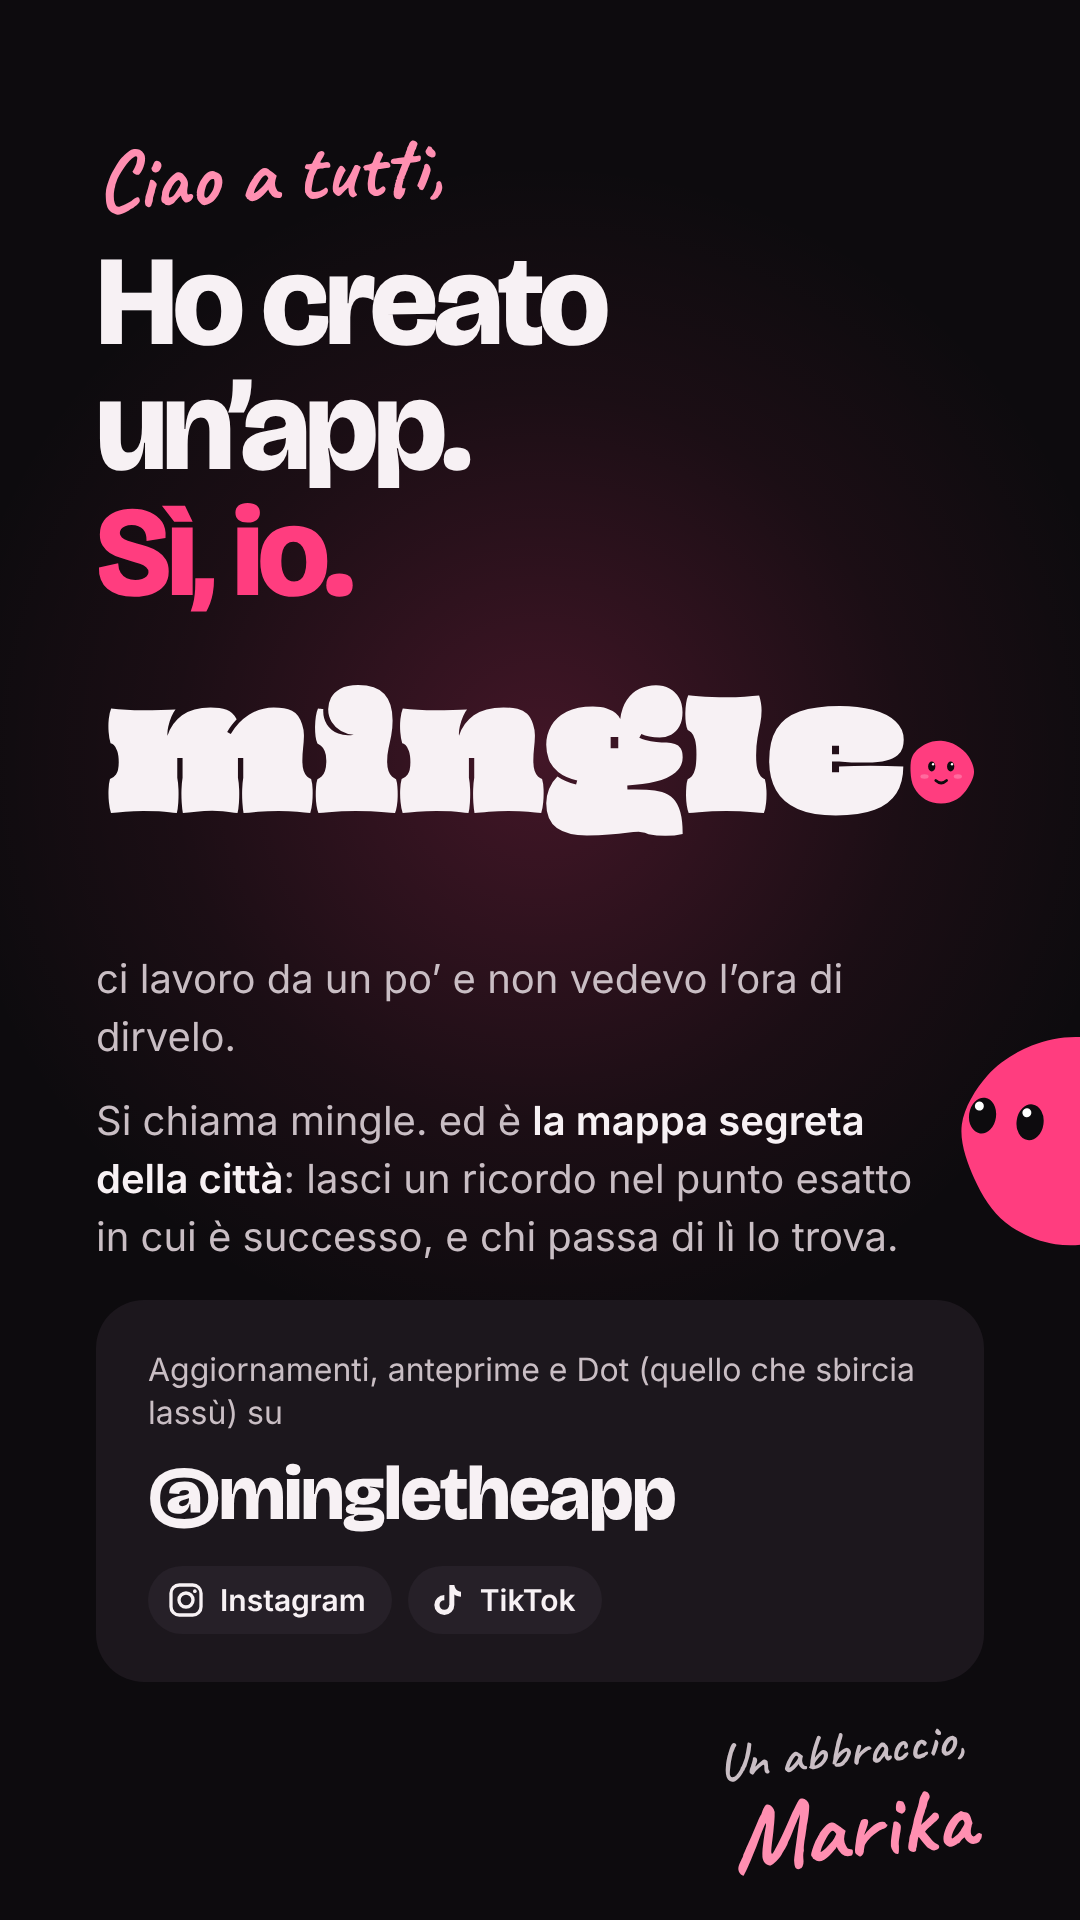
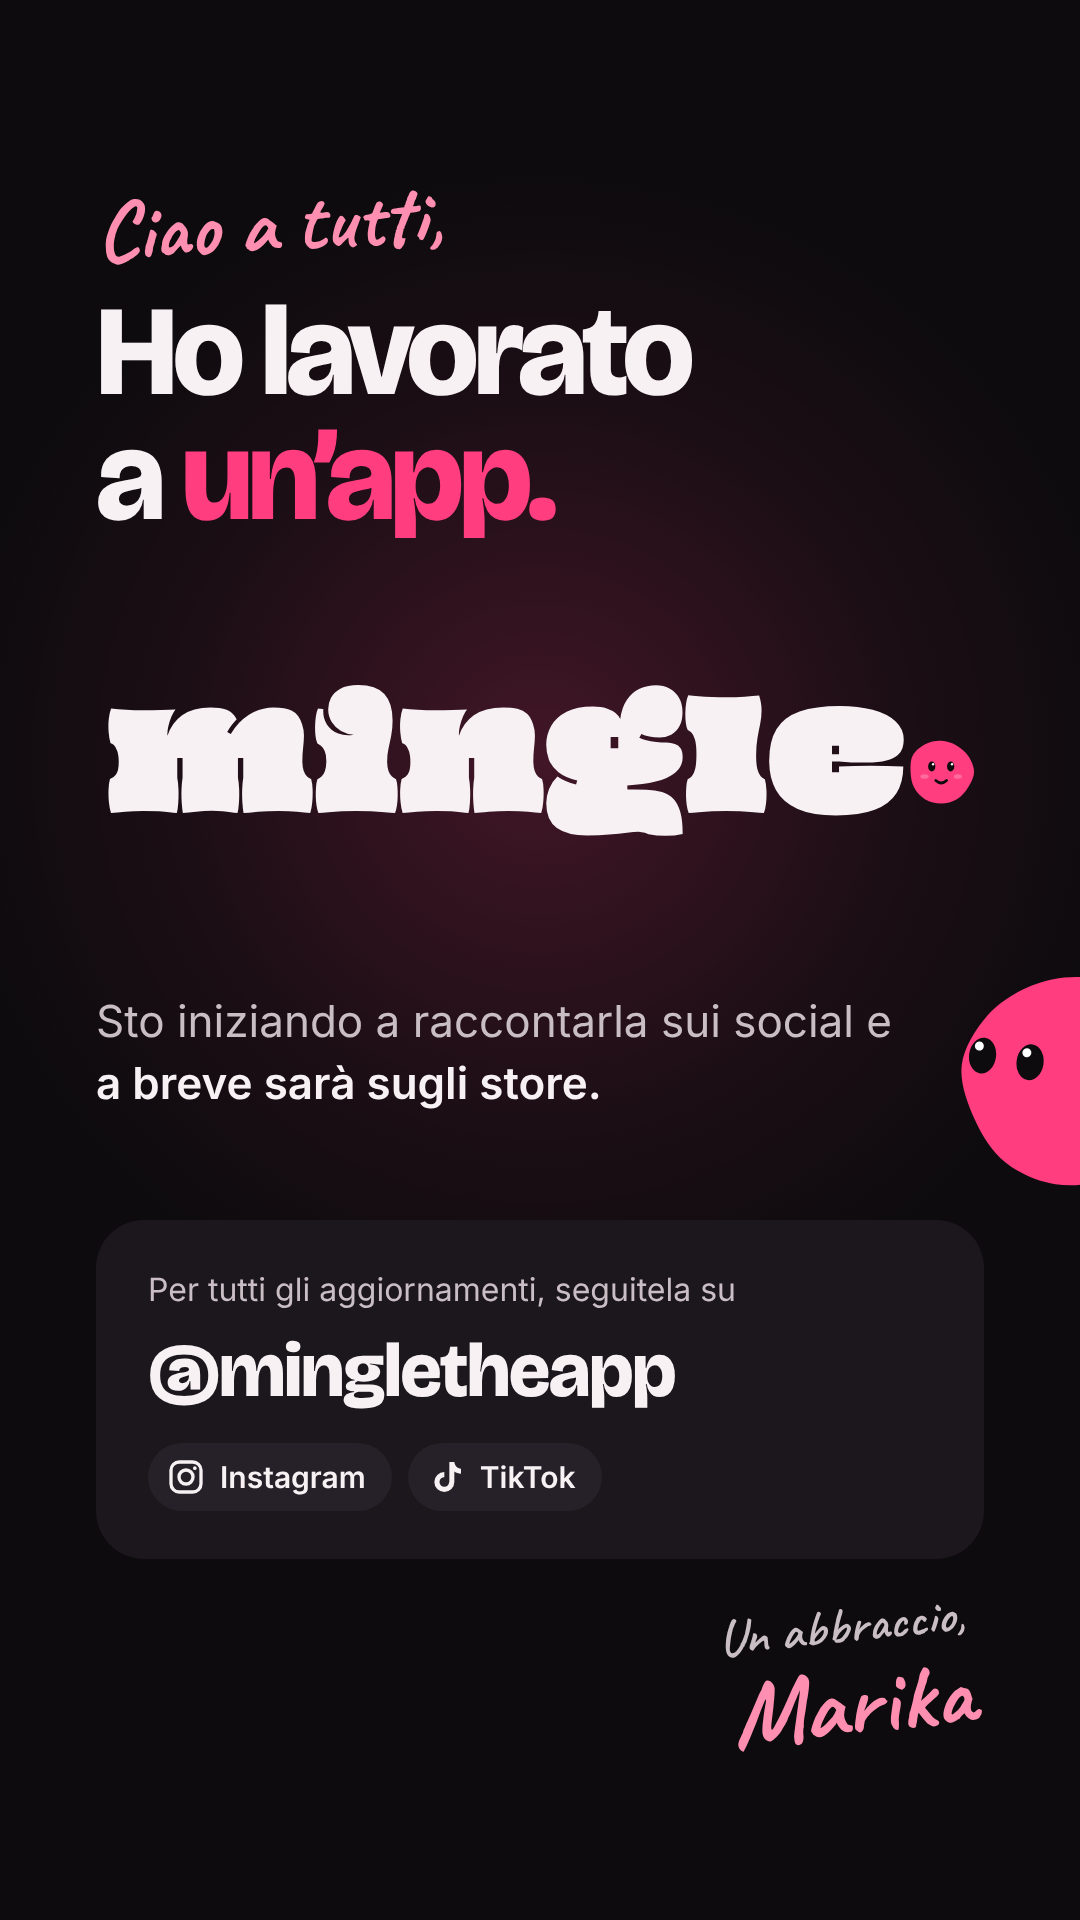
Stato WhatsApp: testi più sobri, niente dettagli sull'app
Claude-Session: https://claude.ai/code/session_01XDMhier1WEJzKbpSLEJqDr

diff --git a/docs/social/stato-whatsapp.html b/docs/social/stato-whatsapp.html
@@ -6,31 +6,31 @@
 body{width:1080px;height:1920px;overflow:hidden;background:#0D0B0E;color:#F7F1F4;font-family:Inter,sans-serif;position:relative}
 .glow{position:absolute;left:50%;top:760px;width:1300px;height:1300px;margin-left:-650px;margin-top:-650px;border-radius:50%;
  background:radial-gradient(circle,rgba(255,61,127,.22) 0%,rgba(255,61,127,.06) 40%,rgba(255,61,127,0) 65%)}
-.eyebrow{position:absolute;left:96px;top:120px;font-family:'Caveat';font-weight:700;font-size:84px;color:#FF8FB1;transform:rotate(-3deg)}
-.h1{position:absolute;left:96px;top:240px;width:900px;font-family:'Bricolage Grotesque';font-weight:800;font-size:128px;line-height:.98;letter-spacing:-5px}
+.eyebrow{position:absolute;left:96px;top:170px;font-family:'Caveat';font-weight:700;font-size:84px;color:#FF8FB1;transform:rotate(-3deg)}
+.h1{position:absolute;left:96px;top:290px;width:900px;font-family:'Bricolage Grotesque';font-weight:800;font-size:128px;line-height:.98;letter-spacing:-5px}
 .h1 span{color:#FF3D7F}
 .logo{position:absolute;left:90px;top:640px;width:900px}
-.lead{position:absolute;left:96px;top:950px;width:820px;font-size:40px;line-height:1.45;color:#C9BEC4}
+.lead{position:absolute;left:96px;top:990px;width:820px;font-size:44px;line-height:1.42;color:#C9BEC4}
 .lead p+p{margin-top:26px}
 .lead b{font-weight:600;color:#F7F1F4}
 .lead em{font-style:normal;color:#FF3D7F}
-.follow{position:absolute;left:96px;right:96px;top:1300px;background:#1C171D;border-radius:48px;padding:48px 52px}
+.follow{position:absolute;left:96px;right:96px;top:1220px;background:#1C171D;border-radius:48px;padding:48px 52px}
 .follow .t{font-size:32px;color:#C9BEC4;line-height:1.35}
 .follow .handle{font-family:'Bricolage Grotesque';font-weight:800;font-size:76px;letter-spacing:-2px;margin-top:14px;color:#F7F1F4}
 .follow .apps{display:flex;gap:16px;margin-top:26px}
 .app{display:flex;align-items:center;gap:14px;background:#262028;border-radius:999px;padding:14px 26px 14px 18px;font-size:30px;font-weight:600}
-.sign{position:absolute;right:110px;top:1724px;font-family:'Caveat';font-weight:700;font-size:96px;line-height:1;color:#FF8FB1;transform:rotate(-6deg);text-align:right}
+.sign{position:absolute;right:110px;top:1600px;font-family:'Caveat';font-weight:700;font-size:96px;line-height:1;color:#FF8FB1;transform:rotate(-6deg);text-align:right}
 .sign small{display:block;font-weight:600;font-size:52px;color:#C9BEC4;margin-bottom:4px}
-.peek{position:absolute;right:-140px;top:990px;width:300px;transform:scaleX(-1) rotate(-8deg)}
+.peek{position:absolute;right:-140px;top:930px;width:300px;transform:scaleX(-1) rotate(-8deg)}
 </style></head><body>
 <div class="glow"></div>
 <div class="eyebrow">Ciao a tutti,</div>
-<div class="h1">Ho creato<br>un’app.<br><span>Sì, io.</span></div>
+<div class="h1">Ho lavorato<br>a <span>un’app.</span></div>
 <img class="logo" src="../brand/dot/logo-mingle-per-fondo-scuro.svg" alt="mingle.">
 <img class="peek" src="../brand/dot/dot-sbircia.svg" alt="">
-<div class="lead"><p>ci lavoro da un po’ e non vedevo l’ora di dirvelo.</p><p>Si chiama mingle. ed è <b>la mappa segreta della città</b>: lasci un ricordo nel punto esatto in cui è successo, e chi passa di lì lo trova.</p></div>
+<div class="lead">Sto iniziando a raccontarla sui social e <b>a breve sarà sugli store.</b></div>
 <div class="follow">
-<div class="t">Aggiornamenti, anteprime e Dot (quello che sbircia lassù) su</div>
+<div class="t">Per tutti gli aggiornamenti, seguitela su</div>
 <div class="handle">@mingletheapp</div>
 <div class="apps">
 <div class="app"><svg width="40" height="40" viewBox="0 0 24 24" fill="none" stroke="#F7F1F4" stroke-width="2"><rect x="3" y="3" width="18" height="18" rx="5"/><circle cx="12" cy="12" r="4.2"/><circle cx="17.3" cy="6.7" r="1.1" fill="#F7F1F4" stroke="none"/></svg>Instagram</div>
